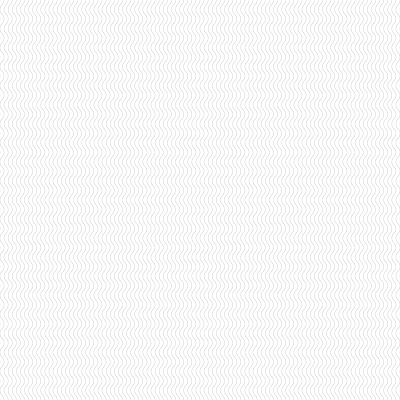
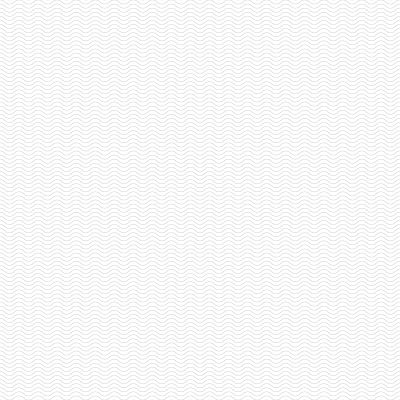
finished main

Changed region(s): [[0.0, 0.0, 1.0, 1.0]]

diff --git a/index.html b/index.html
@@ -2,39 +2,51 @@
 <html lang="en-us">
 
 <head>
-  <meta charset="UTF-8">
-  <title></title>
-  <link rel="stylesheet" type="text/css" href="assets/css/reset.css">
-  <link rel="stylesheet" type="text/css" href="assets/css/style.css">
+    <meta charset="UTF-8">
+    <title></title>
+    <link rel="stylesheet" href="https://use.fontawesome.com/releases/v5.0.10/css/all.css" integrity="sha384-+d0P83n9kaQMCwj8F4RJB66tzIwOKmrdb46+porD/OvrJ+37WqIM7UoBtwHO6Nlg"
+        crossorigin="anonymous">
+    <link rel="stylesheet" type="text/css" href="assets/css/reset.css">
+    <link rel="stylesheet" type="text/css" href="assets/css/style.css">
 </head>
 
 <body>
     <header>
         <section class="header">
-        <h1>Kevin Peña</h1>
-        <nav>
-            <ul>
-                <li><a href="index.html">About &nbsp;|&nbsp;</a></li>
-                <li><a href="portfolio.html">Portfolio&nbsp;|&nbsp;</a></li>
-                <li><a href="contact.html">Contact</a></li>
-            </ul>
-        </nav>
+            <h1>Kevin Peña</h1>
+            <nav>
+                <ul>
+                    <li>&nbsp;|
+                        <a href="index.html">About </a>
+                    </li>
+                    <li>&nbsp;|&nbsp;
+                        <a href="portfolio.html">Portfolio&nbsp;</a>
+                    </li>
+                    <li>
+                        <a href="contact.html">Contact&nbsp;</a>
+                    </li>
+                </ul>
+            </nav>
         </section>
     </header>
     <section class="main">
-        <h2>About Me</h2> <hr>
+        <h2>About Me</h2>
+        <hr>
         <img src="assets/images/me copy.jpg" alt="Kevin Peña w/ cute dog">
-        <p>Zombie ipsum brains reversus ab cerebellum viral inferno, brein nam rick mend grimes malum cerveau cerebro. De carne cerebro lumbering animata cervello
-           corpora quaeritis. Summus thalamus brains sit, morbo basal ganglia vel maleficia? De braaaiiiins apocalypsi gorger omero prefrontal cortex undead survivor 
-           fornix dictum mauris. Hi brains mindless mortuis limbic cortex soulless creaturas optic nerve, imo evil braaiinns stalking monstra hypothalamus adventus 
-           resi hippocampus dentevil vultus brain comedat cerebella pitiutary gland viventium. Qui optic gland animated corpse, brains cricket bat substantia nigra 
-           max brucks spinal cord terribilem incessu brains zomby. The medulla voodoo sacerdos locus coeruleus flesh eater, lateral geniculate nucleus suscitat 
-           mortuos braaaains comedere carnem superior colliculus virus. Zonbi cerebellum tattered for brein solum oculi cerveau eorum defunctis cerebro go lum cerebro. 
-           Nescio brains an Undead cervello zombies. Sicut thalamus malus putrid brains voodoo horror. Nigh basal ganglia tofth eliv ingdead.
+        <p>Zombie ipsum brains reversus ab cerebellum viral inferno, brein nam rick mend grimes malum cerveau cerebro. De carne
+            cerebro lumbering animata cervello corpora quaeritis. Summus thalamus brains sit, morbo basal ganglia vel maleficia?
+            De braaaiiiins apocalypsi gorger omero prefrontal cortex undead survivor fornix dictum mauris. Hi brains mindless
+            mortuis limbic cortex soulless creaturas optic nerve, imo evil braaiinns stalking monstra hypothalamus adventus
+            resi hippocampus dentevil vultus brain comedat cerebella pitiutary gland viventium. Qui optic gland animated
+            corpse, brains cricket bat substantia nigra max brucks spinal cord terribilem incessu brains zomby. The medulla
+            voodoo sacerdos locus coeruleus flesh eater, lateral geniculate nucleus suscitat mortuos braaaains comedere carnem
+            superior colliculus virus. Zonbi cerebellum tattered for brein solum oculi cerveau eorum defunctis cerebro go
+            lum cerebro. Nescio brains an Undead cervello zombies. Sicut thalamus malus putrid brains voodoo horror. Nigh
+            basal ganglia tofth eliv ingdead.
         </p>
     </section>
     <footer class="footer">
-            Copyright&copy;
+        Copyright&copy;
     </footer>
 </body>
 

diff --git a/assets/css/style.css b/assets/css/style.css
@@ -1,7 +1,7 @@
 body {
     color: #777777;
     font-family: Arial, Helvetica, sans-serif;
-    background: url("assets/images/verticalWaves.png") silver;
+    background-image: url("../images/verticalWaves.png");
     height: 100%;
     margin: 0;
 }
@@ -39,25 +39,27 @@ footer {
 }
 
 nav {
+    display: inline;
     float: right;
+    margin: 30px 10px;
 
 }
 
 li {
     display: inline;
+    float: right;
 }
 
 h1 {
+    display: inline;
     color: #fff;
-    height: 77px;
-    width: 250px;
     font-weight: bold;
     background-color: #4aaaa5;
-    left: 100px;
     font-size: 2em;
     font-family: Georgia, 'Times New Roman', Times, serif;
-    line-height: 5pc;
-    padding-left: 30px;
+    line-height: 4pc;
+    padding: 27px 30px;
+    margin: 0;
 }
 h2 {
     font-weight: bold;
@@ -68,7 +70,6 @@ h2 {
 
 }
 p {
-    
     line-height: 30px;
     padding: 12px 30px;
 }
@@ -81,6 +82,10 @@ a {
 a:visited {
     color: #777777;
     float: left;
+}
+
+a:hover {
+    color: #4aaaa5;
 }
 
 img {
